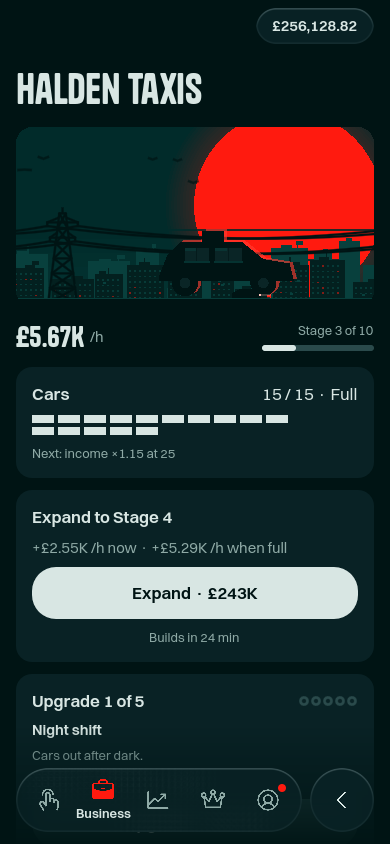
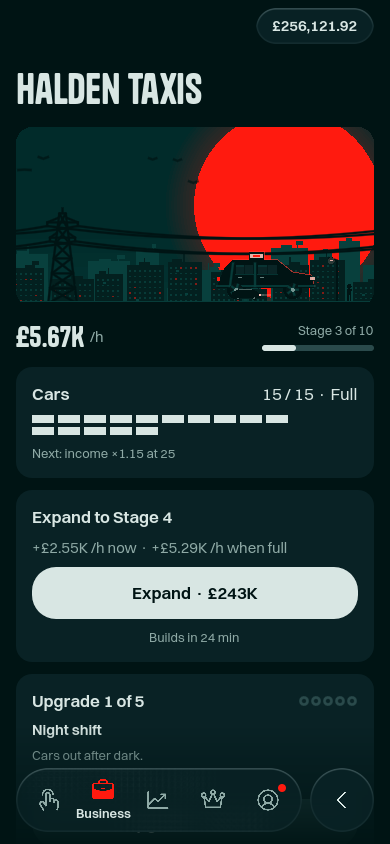
Changelog and README pictures for the detail pass
Claude-Session: https://claude.ai/code/session_01G43aEuqkjUy83khniNYyKE

Changed region(s): [[0.4, 0.2464, 0.8, 0.3697], [0.8615, 0.3389, 0.9231, 0.3697], [0.8308, 0.0, 0.8615, 0.0616]]

diff --git a/CHANGELOG.md b/CHANGELOG.md
@@ -4,7 +4,10 @@
 
 - Every company you can buy shares in has its own logo: a wind turbine
   for Norvale Energy, a bank front for Ostrava Bank, a crown for Hearth &
-  Crown, a tern for Black Tern and so on. All 22 are made up.
+  Crown, a tern for Black Tern and so on. All 22 are made up, now with
+  shading, highlights and small details.
+- Every business picture has more detail: awnings, signs, lit windows,
+  doors, lamps, people, smoke, floodlights, a crane's lattice and more.
 - A richer app icon: the tower with lit red windows, a glowing sun, a city
   skyline and a starry teal sky. It also has a one-colour version for
   Android's themed icons.
